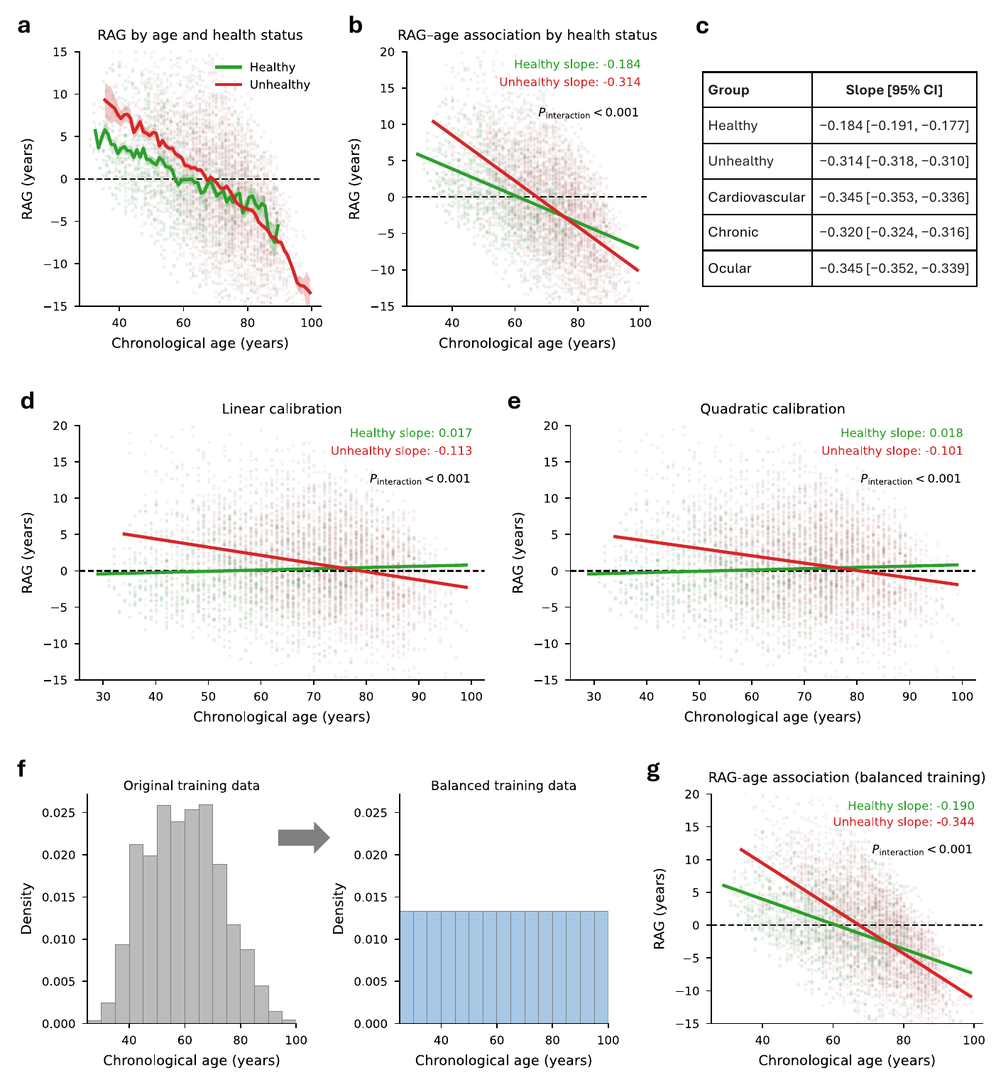
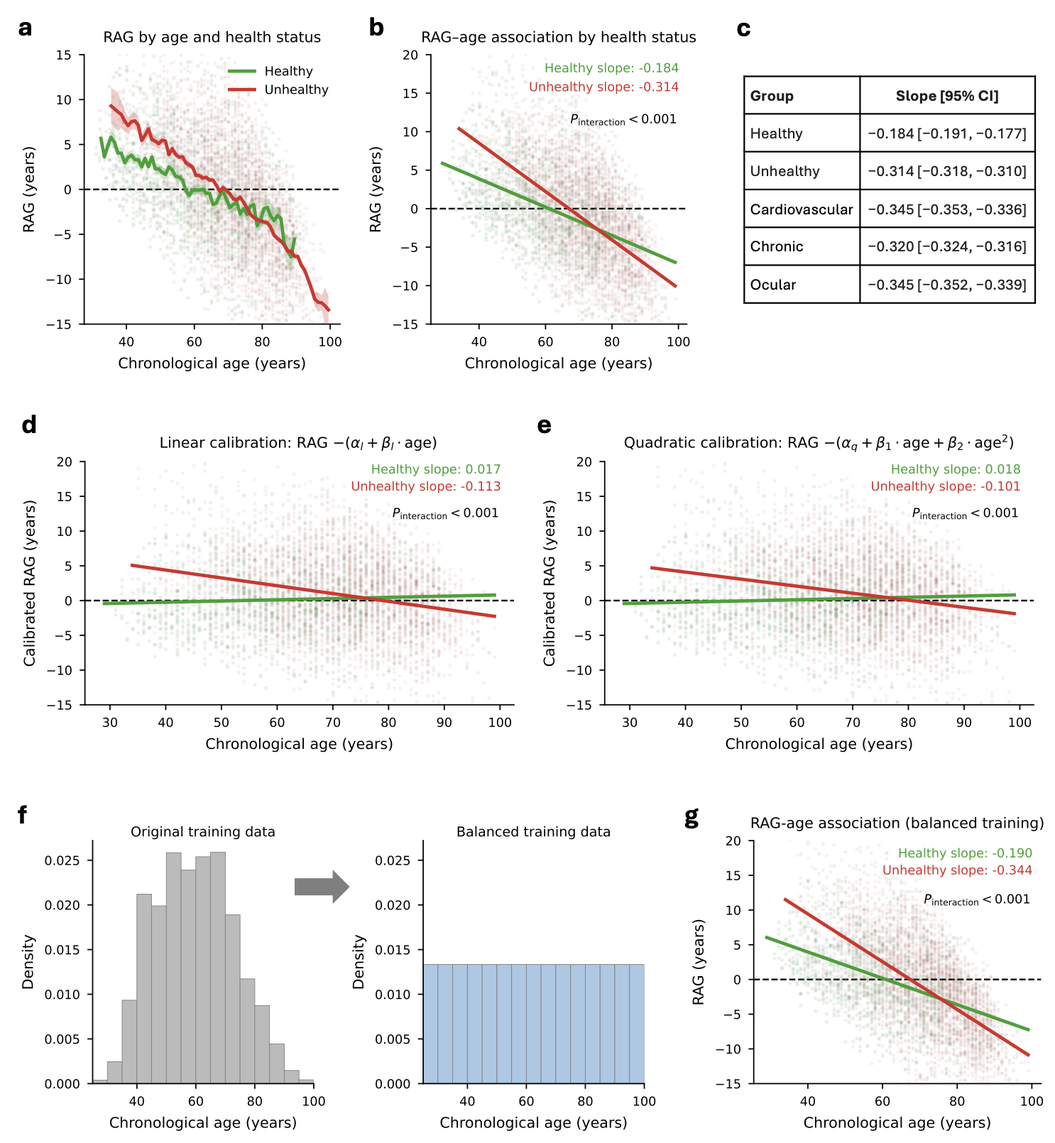
docs: revise preprint Results — add Age baseline, calibration CIs, split methods
- §3: state where calibrators are fit, give linear/quadratic forms with
  α_l,β_l / α_q,β_1,β_2 (matching fig-3 panel labels), and 95% CIs for
  all calibrated and balanced-training slopes.
- §4: report 95% CIs on all per-disease nested-model AUCs; add explicit
  train/test split usage.
- §5: re-order panels (a hexbins, b OR curves, c AUC, d sens/spec/F1)
  to match the regenerated fig-5; add chronological-Age-only baseline
  for external generalisation; report all CIs in xxx (95% CI: [xxx,xxx])
  format with no nested parentheses; explain off-the-shelf vs externally
  calibrated regimes once in the c-d caption.
- Captions trimmed to describe what is plotted / how it was produced;
  interpretive 'this confirms / this means' statements moved out.
- fig-3.png and fig-5.png re-exported from updated PDFs at correct
  aspect ratio.

diff --git a/docs/preprint.md b/docs/preprint.md
@@ -4,101 +4,100 @@
 
 ### 1. Study design
 
-A deep retinal age model trained on color fundus photography (CFP) outputs an estimated retinal age $\hat a$. The retinal age gap, $\mathrm{RAG} = \hat a - a$, is interpreted as accelerated (RAG > 0) or decelerated (RAG < 0) biological aging relative to chronological age $a$ (**Fig. 1a**). Because the regressor is trained to minimise prediction error against $a$, predictions revert toward the training-set mean. This is known as the regression-to-the-mean (RTM) effect. We hypothesised that RTM is itself disease-modulated. In unhealthy eyes, the model loses age-specific cues and reverts more strongly than in healthy eyes, producing a *differential* RTM that has been mistaken in previous works for a true biomarker of biological aging (**Fig. 1b**).
+A deep retinal age model trained on colour fundus photography (CFP) outputs an estimated retinal age $\hat a$. The retinal age gap, $\mathrm{RAG} = \hat a - a$, is interpreted as accelerated (RAG > 0) or decelerated (RAG < 0) biological aging relative to chronological age $a$ (**Fig. 1a**). Because the regressor is trained to minimise prediction error against $a$, predictions revert toward the training-set mean. This is known as the regression-to-the-mean (RTM) effect. We hypothesised that RTM is itself disease-modulated. In unhealthy eyes, the model loses age-specific cues and reverts more strongly than in healthy eyes, producing a differential RTM that has been mistaken in previous works for a true biomarker of biological aging (**Fig. 1b**).
 
-To dissect this confound, we assembled one internal cohort (AlzEye, Moorfields) and three independent external cohorts spanning two continents and four imaging devices. After image-quality filtering and removal of records without confirmed disease labels, the analytic AlzEye cohort comprised 60,865 patients / 327,764 images, with mean ± s.d. age 63.07 ± 11.76 years (**Fig. 1c**, **Supplementary Fig. 1**). The internal cohort was partitioned at the patient level into two subsets that share no patients. The *retinal-age estimation subset* (12,306 patients / 67,718 images, healthy only) was used exclusively to train the regression model. The *disease-classification subset* (48,559 patients / 260,046 images, healthy + unhealthy) was used to fit and evaluate downstream logistic associations. External cohorts were UK Biobank (UKB; 29,835 patients / 51,709 images, Topcon), BRSET (5,529 patients / 10,287 images, Canon + Nikon) and mBRSET (1,277 patients / 5,107 images, Phelcom handheld). Per-split patient counts, image counts and age distributions are shown in **Supplementary Figs. 1–7**.
+To dissect this confound, we assembled one internal cohort (AlzEye, Moorfields) and three independent external cohorts spanning two continents and four imaging devices. After image-quality filtering and removal of records without confirmed disease labels, the analytic AlzEye cohort comprised 60,865 patients / 327,764 images, with mean ± s.d. age 63.07 ± 11.76 years (**Fig. 1c**, **Supplementary Fig. 1**). Throughout, unhealthy denotes any record with a confirmed non-healthy disease label, with cardiovascular, chronic and ocular as subcategories. The internal cohort was partitioned at the patient level into two subsets that share no patients. The retinal-age estimation subset (12,306 patients / 67,718 images, healthy only) was used exclusively to train the regression model. The disease-classification subset (48,559 patients / 260,046 images, healthy + unhealthy) was used to fit and evaluate downstream logistic associations. External cohorts were UK Biobank (UKB; 29,835 patients / 51,709 images, Topcon), BRSET (5,529 patients / 10,287 images, Canon + Nikon) and mBRSET (1,277 patients / 5,107 images, Phelcom handheld). Per-split patient counts, image counts and age distributions are shown in **Supplementary Figs. 1–7**.
 
 <img src="exported_figs/fig-1.png" width="100%" alt="Figure 1">
 
 **Fig. 1. Overview of the study, mechanism, and study cohorts.**
 **a.** Retinal age estimation and the retinal age gap (RAG). A deep retinal age model takes a colour fundus photograph (CFP) as the input and outputs an estimated retinal age. The RAG is defined as estimated age minus chronological age: a positive RAG (red) implies faster aging and poorer health, a negative RAG (green) implies slower aging and healthier status, and RAG = 0 (black) reflects average aging at the training-set scale.
-**b.** Mechanism of differential regression-to-the-mean (RTM). Top-left: the true age distribution of the general population (solid) and the predicted-age distribution implied by the model (dashed); predictions contract toward the training mean. Middle-left: in healthy individuals, image features encode age well, so RTM is mild. Bottom-left: in unhealthy individuals, disease-related features dilute the age-specific signal and predictions revert more strongly to the mean (severe RTM). Right column: the empirical mean RAG by 10-year age subgroup confirms the prediction. RAG declines with chronological age in both groups but more steeply in unhealthy, and the implied per-year odds ratio for unhealthy status falls from > 1.10 in the youngest stratum to < 1.00 in the oldest.
+**b.** Schematic of differential regression-to-the-mean (RTM), shown in the left column, alongside the empirical RAG–age and OR–age curves on AlzEye in the right column. Top-left: true age distribution (solid) and predicted-age distribution (dashed). Middle-left and bottom-left: schematic prediction patterns for healthy and unhealthy eyes, respectively. Right column (top): empirical mean RAG by 10-year age subgroup. Right column (bottom): implied per-year odds ratio for unhealthy by age subgroup.
 **c.** Datasets used in this study. The internal AlzEye subset (blue) provided training and an internal hold-out test, and three external cohorts (UK Biobank, BRSET, mBRSET) were used for external generalisation testing. For each cohort the panel summarises the chronological-age distribution and imaging-device composition. All counts shown are after image-quality and disease-label filtering; full per-split breakdowns are in **Supplementary Figs. 1–7**.
 
 ### 2. Retinal age and RAG in the internal cohort
 
-We trained the retinal age model on the retinal-age estimation subset (53,680 training images, **Fig. 2a**). On the held-out validation split, the model achieved a mean absolute error (MAE) of 5.31 years, RMSE of 6.80 years, and a mean RAG of −0.86 years (**Fig. 2b**). This is comparable to or better than published retinal-age benchmarks, despite the relatively narrow training-age window.
+We trained the retinal age model (**Supplementary Fig. 8**) on the train split of the retinal-age estimation subset (**Fig. 2a**). On the held-out validation split of the same subset, the model achieved a mean absolute error (MAE) of 5.31 years, RMSE of 6.80 years, and a mean RAG of −0.86 years (**Fig. 2b**).
 
-Applying the frozen model to the disease-classification subset, the marginal age-adjusted mean RAG at age 65 was significantly higher in every disease category than in healthy controls (mean RAG: healthy −0.7 yr, all-unhealthy +0.7 yr, cardiovascular +1.25 yr, chronic +0.65 yr, ocular +1.6 yr; all *P* < 0.001 vs. healthy; **Fig. 2c**). A logistic regression with disease as the outcome and RAG as the only predictor returned an odds ratio per +1 year RAG of 1.049 (95 % CI 1.046–1.053) for any unhealthy status, 1.041 (1.036–1.046) for cardiovascular disease, 1.048 (1.045–1.052) for chronic disease, and 1.065 (1.061–1.069) for ocular disease (**Fig. 2d**). Taken at face value, these effect sizes appear consistent with a generic biomarker of biological aging. However, as we now show, they are inflated by differential RTM rather than reflecting a single underlying aging signal.
+We then froze the retinal age model and applied it to the test split of the disease-classification subset; all subsequent §2–§4 analyses use this split unless stated otherwise. The marginal age-adjusted mean RAG at age 65 was significantly higher in every disease category than in healthy controls (mean RAG: healthy −0.7 yr, unhealthy +0.7 yr, cardiovascular +1.25 yr, chronic +0.65 yr, ocular +1.6 yr; all *P* < 0.001 vs healthy; **Fig. 2c**). A logistic regression with disease as the outcome and RAG as the only predictor returned an odds ratio per +1 year RAG of 1.049 (95% CI: [1.046, 1.053]) for unhealthy, 1.041 (95% CI: [1.036, 1.046]) for cardiovascular disease, 1.048 (95% CI: [1.045, 1.052]) for chronic disease, and 1.065 (95% CI: [1.061, 1.069]) for ocular disease (**Fig. 2d**).
 
 <img src="exported_figs/fig-2.png" width="100%" alt="Figure 2">
 
 **Fig. 2. Internal retinal age prediction and association with disease on the AlzEye disease-classification subset.**
-**a.** Training-set age distribution. Chronological age distribution of the training split of the retinal-age estimation subset, used to fit the retinal age model (1-year bins). Following previous works, the retinal age model is trained exclusively on healthy patients to better separate healthy and unhealthy groups at test time.
-**b.** Internal retinal age model performance. Hexbin density of estimated retinal age vs chronological age on the held-out validation split of the retinal-age estimation subset; the dashed line is identity. The panel reports three commonly used metrics: Mean Retinal Age Gap (RAG), Mean Absolute Error (MAE) and Root Mean Square Error (RMSE). Lower MAE / RMSE indicates that estimated ages are closer to chronological ages.
-**c.** Age-adjusted mean RAG by group. Marginal mean RAG predicted at age 65 for healthy patients and four disease categories (unhealthy = any non-healthy disease record; cardiovascular, chronic and ocular = subcategories). Error bars: 95 % confidence intervals (CIs) from a patient-level cluster bootstrap. P-values for the difference in mean RAG between each disease group and the healthy reference are reported in the panel.
-**d.** Association analysis. Logistic regression was performed with each disease label as the outcome and RAG as the only predictor; reported are Odds Ratios (OR) per +1 year increase in RAG and 95 % CIs, with p-values from the Wald test. An OR > 1 indicates a positive association between higher RAG and disease prevalence.
+**a.** Training-set age distribution. Chronological age distribution of the training split of the retinal-age estimation subset, used to fit the retinal age model (1-year bins). Following previous works, the retinal age model is trained exclusively on healthy patients.
+**b.** Internal retinal age model performance. Hexbin density of estimated retinal age vs chronological age on the held-out validation split of the retinal-age estimation subset; the dashed line is identity. Annotated metrics: Mean Retinal Age Gap (RAG), Mean Absolute Error (MAE) and Root Mean Square Error (RMSE).
+**c.** Age-adjusted mean RAG by group. Marginal mean RAG predicted at age 65 for healthy patients and the four disease categories. Error bars: 95% confidence intervals (CIs) from a patient-level cluster bootstrap. P-values for the difference in mean RAG between each disease group and the healthy reference are reported in the panel.
+**d.** Association analysis. Logistic regression was performed with each disease label as the outcome and RAG as the only predictor; reported are Odds Ratios (OR) per +1 year increase in RAG and 95% CIs, with *P*-values from the Wald test.
 
 ### 3. Differential RTM by health status
 
-Stratifying RAG by chronological age within disease group revealed a strong, *non-zero* slope of RAG against age in every group (**Fig. 3a,b**). The healthy slope was −0.184 (95 % CI −0.191 to −0.177) and the unhealthy slope was −0.314 (−0.318 to −0.310), with $P_{\text{interaction}} < 0.001$. Disease-specific slopes were steeper still: cardiovascular −0.345 (−0.353 to −0.336), chronic −0.320 (−0.324 to −0.316), and ocular −0.345 (−0.352 to −0.339; **Fig. 3c**). A non-zero RAG–age slope is the diagnostic signature of RTM. A true biomarker of biological aging should be approximately constant across chronological age. In contrast, a regression artefact that contracts predictions toward the training mean produces exactly this monotonically decreasing pattern.
+Stratifying RAG by chronological age within disease group revealed a strong, non-zero slope of RAG against age in every group (**Fig. 3a,b**). The healthy slope was −0.184 (95% CI: [−0.191, −0.177]) and the unhealthy slope was −0.314 (95% CI: [−0.318, −0.310]), with $P_{\text{interaction}} < 0.001$. Disease-specific slopes were steeper still: cardiovascular −0.345 (95% CI: [−0.353, −0.336]), chronic −0.320 (95% CI: [−0.324, −0.316]), and ocular −0.345 (95% CI: [−0.352, −0.339]; **Fig. 3c**).
 
-We next asked whether the differential slope between healthy and unhealthy groups could be eliminated by post-hoc calibration. Linear age-calibration on healthy validation data flattened the healthy slope to 0.017 but only attenuated the unhealthy slope to −0.113 ($P_{\text{interaction}} < 0.001$; **Fig. 3d**); a quadratic calibration yielded essentially the same residual interaction (healthy 0.018, unhealthy −0.101, $P_{\text{interaction}} < 0.001$; **Fig. 3e**). Re-training the retinal age model on a uniform-age training distribution obtained by inverse-frequency resampling (**Fig. 3f**) likewise failed to remove the interaction (healthy −0.190, unhealthy −0.344, $P_{\text{interaction}} < 0.001$; **Fig. 3g**). The differential slope persists under three orthogonal interventions (linear calibration, quadratic calibration, and balanced training). This establishes that the RAG–age dependence is not a fixable training artefact. It carries a real, disease-modulated signal that cannot be linearly absorbed into an age coefficient.
+We next asked whether the differential slope between healthy and unhealthy groups could be eliminated by post-hoc calibration. Two age-calibrators were fit on the train split of the disease-classification subset, restricted to healthy patients, by regressing raw RAG on chronological age: a linear form $\mathrm{RAG} = \alpha_l + \beta_l \cdot \mathrm{age}$ and a quadratic form $\mathrm{RAG} = \alpha_q + \beta_1 \cdot \mathrm{age} + \beta_2 \cdot \mathrm{age}^2$. The calibrated RAG on the test split was then defined as raw RAG minus the value implied by the fitted calibrator at each patient's age. Linear age-calibration flattened the healthy slope to 0.017 (95% CI: [0.011, 0.024]) but only attenuated the unhealthy slope to −0.113 (95% CI: [−0.117, −0.109]); $P_{\text{interaction}} < 0.001$ (**Fig. 3d**). The quadratic calibration yielded essentially the same residual interaction: healthy 0.018 (95% CI: [0.011, 0.024]), unhealthy −0.101 (95% CI: [−0.105, −0.097]); $P_{\text{interaction}} < 0.001$ (**Fig. 3e**). Re-training the retinal age model on a uniform-age training distribution obtained by inverse-frequency resampling (**Fig. 3f**) likewise failed to remove the interaction on the test split: healthy −0.190 (95% CI: [−0.196, −0.183]), unhealthy −0.344 (95% CI: [−0.348, −0.340]); $P_{\text{interaction}} < 0.001$ (**Fig. 3g**). The differential slope persisted under all three interventions.
 
 <img src="exported_figs/fig-3.png" width="100%" alt="Figure 3">
 
 **Fig. 3. Differential RTM by health status persists under linear, quadratic and training-distribution calibration.**
 All analyses are on the test split of the AlzEye disease-classification subset.
-**a.** Mean RAG vs chronological age stratified by health status (1-year bins). Shaded bands are 95 % CIs from a patient-level cluster bootstrap. A non-zero RAG–age slope is the diagnostic signature of RTM.
-**b.** Group-wise linear regression of RAG on chronological age. Slopes are reported with 95 % CIs and an interaction term tests whether the healthy and unhealthy slopes differ.
-**c.** Slope estimates and 95 % CIs for healthy, unhealthy, and the three disease subcategories.
-**d–e.** Re-evaluation after applying a linear (d) or quadratic (e) age-calibration fitted on the healthy validation split. Calibration is intentionally derived from healthy data only; the test of differential RTM is whether the unhealthy slope flattens to zero accordingly.
+**a.** Mean RAG vs chronological age stratified by health status (1-year bins). Shaded bands are 95% CIs from a patient-level cluster bootstrap.
+**b.** Group-wise linear regression of RAG on chronological age. Slopes are reported with 95% CIs and an interaction term tests whether the healthy and unhealthy slopes differ.
+**c.** Slope estimates and 95% CIs for healthy, unhealthy, and the three disease subcategories.
+**d–e.** Re-evaluation after applying a linear (d) or quadratic (e) age-calibrator fit on the healthy subset of the disease-classification subset training split (see body §3 for the fitted form).
 **f.** Training-distribution rebalancing. Original training-age distribution (left) and the uniform-age distribution obtained by inverse-frequency resampling (right) used for the balanced-training experiment.
-**g.** RAG–age relationship after re-training the retinal age model on the balanced training distribution. Persistence of a differential slope between healthy and unhealthy here indicates that the effect is not a simple training-distribution artefact.
+**g.** RAG–age relationship after re-training the retinal age model on the balanced training distribution.
 
 ### 4. Utility of RAG in disease classification
 
-Because RAG carries information that is not separable from chronological age by a univariate linear correction, we modelled the joint dependence with a logistic regression that included an explicit age × RAG interaction: $\text{logit}(\text{Unhealthy}) \sim \text{Age} + \text{RAG} + \text{Age} \times \text{RAG}$. The interaction was highly significant in every disease category. The implied marginal odds ratio per +1 year RAG decreased monotonically with chronological age, from ≈ 1.12 at age 30 to ≈ 1.00 at age ≈ 90 and below 1.00 for the oldest patients (**Fig. 4a**). In other words, an additional year of RAG carries strong evidence of disease in young patients but essentially none in the very elderly. This is exactly the dependence predicted by the differential-RTM mechanism, in which old patients are already pulled toward the training mean.
+We modelled the joint dependence of disease on age and RAG with a logistic regression that included an explicit age × RAG interaction: $\text{logit}(\text{unhealthy}) \sim \text{Age} + \text{RAG} + \text{Age} \times \text{RAG}$. Logistic coefficients were fit on the train split of the disease-classification subset and all reported metrics are on the held-out test split. The interaction was highly significant in every disease category. The implied marginal odds ratio per +1 year RAG decreased monotonically with chronological age, from ≈ 1.12 at age 30 to ≈ 1.00 around age 90, falling below 1.00 in the oldest patients (**Fig. 4a**).
 
-The interaction term contributed measurable discrimination beyond a main-effects-only model. Across all four disease categories the Age + RAG + Age × RAG model outperformed both the Age-only and Age + RAG models: unhealthy AUC 0.731 → 0.735 → 0.740, cardiovascular 0.806 → 0.808 → 0.815, chronic 0.726 → 0.729 → 0.736, ocular 0.758 → 0.768 → 0.774 (**Fig. 4b**). The advantage was concentrated in the youngest age stratum (< 45 years), where the interaction was largest in absolute terms (e.g. ocular AUC 0.58 → 0.79 → 0.80; **Fig. 4c**). The decision-boundary geometry made this explicit. Under the Age-only model, the boundary is a vertical line in age. Under Age + RAG, it becomes a tilted line. Under Age + RAG + Age × RAG, it becomes a curve whose slope flattens with increasing age, capturing the diminishing diagnostic value of RAG in older patients (**Fig. 4d**).
+Across all four disease categories the Age + RAG + Age × RAG model outperformed both the Age-only and Age + RAG models (**Fig. 4b**). AUCs for Age-only, Age + RAG and Age + RAG + Age × RAG, respectively, were: unhealthy 0.731 (95% CI: [0.726, 0.736]), 0.737 (95% CI: [0.732, 0.742]), 0.741 (95% CI: [0.736, 0.746]); cardiovascular 0.806 (95% CI: [0.800, 0.811]), 0.809 (95% CI: [0.804, 0.814]), 0.813 (95% CI: [0.808, 0.818]); chronic 0.727 (95% CI: [0.722, 0.732]), 0.733 (95% CI: [0.728, 0.738]), 0.737 (95% CI: [0.732, 0.742]); ocular 0.757 (95% CI: [0.752, 0.763]), 0.769 (95% CI: [0.764, 0.775]), 0.774 (95% CI: [0.769, 0.780]). The advantage was concentrated in the youngest age stratum (< 45 years), where the interaction was largest in absolute terms; e.g. ocular AUC 0.579 (95% CI: [0.552, 0.607]), 0.791 (95% CI: [0.770, 0.814]), 0.802 (95% CI: [0.781, 0.824]) under the same three specifications (**Fig. 4c**). Under the Age-only model the decision boundary is a vertical line in age, under Age + RAG a tilted line, and under Age + RAG + Age × RAG a curve whose slope flattens with increasing age (**Fig. 4d**).
 
 <img src="exported_figs/fig-4.png" width="100%" alt="Figure 4">
 
 **Fig. 4. Utility of RAG in disease classification.**
 All models are fitted and evaluated on the AlzEye disease-classification subset; AUCs are reported on the test split.
-**a.** Marginal odds ratio per +1 year RAG by chronological age. Implied by the Age + RAG + Age × RAG logistic for the *Unhealthy* outcome. The interaction term allows the per-year RAG OR to vary continuously with age. Shaded band: 95 % CI from a patient-level cluster bootstrap. An OR > 1 indicates a positive RAG–disease association at that age.
-**b.** Discrimination across logistic specifications. AUC for predicting unhealthy / cardiovascular / chronic / ocular disease under three nested models: Age only (blue), Age + RAG (yellow) and Age + RAG + Age × RAG (red). Error bars: 95 % CI.
+**a.** Marginal odds ratio per +1 year RAG by chronological age. Implied by the Age + RAG + Age × RAG logistic for the unhealthy outcome. Shaded band: 95% CI from a patient-level cluster bootstrap.
+**b.** Discrimination across logistic specifications. AUC for predicting unhealthy / cardiovascular / chronic / ocular disease under three nested models: Age only (blue), Age + RAG (yellow) and Age + RAG + Age × RAG (red). Error bars: 95% CI.
 **c.** Age-stratified discrimination. Same models as in b, stratified by chronological-age tertile (< 45, 45–75, ≥ 75).
-**d.** Decision boundaries in the (Age, RAG) plane. The Age-only model (left) ignores RAG entirely; Age + RAG (centre) adds a fixed-slope age penalty; Age + RAG + Age × RAG (right) introduces a curved boundary that captures the age-dependent diagnostic value of RAG. Background colour: P(Unhealthy); points: held-out test cases.
+**d.** Decision boundaries in the (Age, RAG) plane for the three logistic specifications: Age-only (left), Age + RAG (centre) and Age + RAG + Age × RAG (right). Background colour: P(unhealthy); points: held-out test cases.
 
 ### 5. Generalisation across external cohorts
 
-We finally evaluated whether the AlzEye-trained retinal-age model, together with the AlzEye-fitted Age + RAG + Age × RAG logistic, transfers across populations and devices. Apparent age-prediction accuracy *appeared* to degrade only modestly across cohorts (UKB MAE 3.80 yr, BRSET 7.34 yr, mBRSET 8.40 yr; **Fig. 5a**). However, mean RAG was strongly cohort-dependent (UKB +1.48, BRSET −0.92, mBRSET −5.70 years). This reflects both device-specific bias and cohort-specific age distributions. Each external cohort was split 50/50 at the patient level, stratified by disease label.
+We finally evaluated whether the AlzEye-trained retinal-age model, together with the AlzEye-fitted Age + RAG + Age × RAG logistic, transfers across populations and devices. Each external cohort was split 50/50 at the patient level, stratified by disease label, into a training split (used only for external calibration of the logistic and decision threshold) and a test split (used only for evaluation). The retinal-age model itself was never re-trained or fine-tuned on external data. Age-prediction MAE on the external test splits was 3.80 yr in UKB, 7.34 yr in BRSET and 8.40 yr in mBRSET (**Fig. 5a**); mean RAG was strongly cohort-dependent (UKB +1.48, BRSET −0.92, mBRSET −5.70 years). The implied per-year odds-ratio surfaces, derived from an Age + RAG + Age × RAG logistic refit on each cohort's training split (**Fig. 5b**), reproduced the internal pattern of decreasing OR with age in UKB and BRSET but inverted in mBRSET.
 
-For threshold-free discrimination of unhealthy vs healthy, the AlzEye-trained Age + RAG + Age × RAG logistic achieved an internal AUC of 0.741 (95 % CI 0.722–0.764). When applied off-the-shelf (i.e. without refitting either the logistic coefficients or the decision threshold), discrimination dropped substantially in every external cohort (UKB AUC 0.685 [0.677–0.692], BRSET 0.664 [0.652–0.677], mBRSET 0.614 [0.585–0.642]; **Fig. 5b**, light bars). Re-fitting the logistic *coefficients* on each external training split (externally calibrated) only marginally increased AUC (UKB 0.687, BRSET 0.671, mBRSET 0.638). This confirms that most of the AUC drop reflects cohort-level shifts in the underlying retinal-age representation, rather than miscalibration of the logistic.
+For threshold-free discrimination of unhealthy vs healthy, the AlzEye-trained Age + RAG + Age × RAG logistic achieved an internal AUC of 0.741 (95% CI: [0.715, 0.767]); the chronological-Age-only baseline was 0.731 (95% CI: [0.706, 0.756]). Off-the-shelf transfer to external cohorts dropped AUC under both specifications (**Fig. 5c**). For Age + RAG + Age × RAG: UKB 0.685 (95% CI: [0.675, 0.694]), BRSET 0.664 (95% CI: [0.646, 0.682]), mBRSET 0.614 (95% CI: [0.559, 0.665]). For the Age-only baseline: UKB 0.684 (95% CI: [0.674, 0.693]), BRSET 0.662 (95% CI: [0.644, 0.680]), mBRSET 0.637 (95% CI: [0.582, 0.696]). External calibration only marginally increased the interaction-model AUC: UKB 0.688 (95% CI: [0.679, 0.697]), BRSET 0.671 (95% CI: [0.652, 0.689]), mBRSET 0.638 (95% CI: [0.583, 0.695]). In mBRSET, the Age-only model in fact outperformed the interaction model off-the-shelf.
 
-Threshold-based metrics, evaluated at the AlzEye internal Youden threshold (0.742) for the off-the-shelf regime and at per-cohort Youden thresholds for the externally-calibrated regime, told a more nuanced story (**Fig. 5c**). At a fixed AlzEye threshold, sensitivity collapsed in all three external cohorts (UKB 0.49, BRSET 0.51, mBRSET 0.39; vs internal 0.78), while specificity was preserved or elevated (UKB 0.76, BRSET 0.73, mBRSET 0.74; vs internal 0.58). Re-fitting both the logistic and the threshold on the local training split largely restored sensitivity (UKB 0.72, BRSET 0.58, mBRSET 0.82) at the cost of specificity in the high-prevalence mBRSET cohort (0.43). The implied per-year odds-ratio surfaces (**Fig. 5d**) reproduced the internal pattern of decreasing OR with age in two of three external cohorts (UKB, BRSET), but inverted in mBRSET. This inversion likely reflects mBRSET's narrow age range, ~80 % disease prevalence and handheld-camera image domain. Together, these results illustrate that *off-the-shelf transfer of a retinal-age biomarker is not warranted without explicit cohort-level recalibration*.
+For threshold-based metrics (**Fig. 5d**), off-the-shelf transfer dropped sensitivity in all three external cohorts (UKB 0.49, BRSET 0.51, mBRSET 0.39; vs internal 0.79), while specificity was preserved or elevated (UKB 0.76, BRSET 0.72, mBRSET 0.74; vs internal 0.57). External calibration restored sensitivity (UKB 0.72, BRSET 0.57, mBRSET 0.82) at the cost of specificity in mBRSET (0.42).
 
 <img src="exported_figs/fig-5.png" width="100%" alt="Figure 5">
 
 **Fig. 5. Generalisation across external cohorts: UK Biobank, BRSET and mBRSET.**
-Each external cohort is split 50/50 at the patient level, stratified by Unhealthy; evaluations are reported on the local test split.
+Each external cohort is split 50/50 at the patient level, stratified by disease label; evaluations are reported on the local test split.
 **a.** External retinal age model performance. Hexbin density of estimated retinal age vs chronological age in each external cohort; the dashed line is identity. Per-cohort MAE, RMSE and mean RAG are annotated in each panel.
-**b.** External AUC under the Age + RAG + Age × RAG logistic. The model logit(Unhealthy) ∼ Age + RAG + Age × RAG is evaluated on each external cohort. Internal: AlzEye disease-classification subset test split (dashed reference line). Off-the-shelf (light blue): the AlzEye-fit logistic applied without refit. Externally calibrated (dark blue): the same specification refit on the local training split. Error bars: 95 % CI from a patient-level cluster bootstrap.
-**c.** Sensitivity, specificity and F1 at the operating threshold for each cohort × regime. Off-the-shelf evaluations use the *fixed AlzEye internal Youden threshold* (0.742, the only honest "no recalibration" definition), held constant across bootstrap resamples. Externally-calibrated evaluations use a per-cohort Youden threshold computed on the local training split. Internal references are shown as dashed lines.
-**d.** Implied per-year odds-ratio curves. Curves derived from each cohort's externally-calibrated Age + RAG + Age × RAG logistic for the *Unhealthy* outcome, plotted against chronological age. The AlzEye internal curve (grey) is reproduced for reference. An OR > 1 indicates a positive RAG–disease association at that age.
+**b.** Implied per-year odds-ratio curves. Curves derived from each cohort's externally-calibrated Age + RAG + Age × RAG logistic for the unhealthy outcome, plotted against chronological age. The AlzEye internal curve (grey) is reproduced for reference.
+**c–d.** Disease classification metrics across cohorts. Two logistic specifications (Age-only; Age + RAG + Age × RAG) are evaluated on each external cohort in two ways: off-the-shelf, applying the AlzEye-fit logistic without modification (and, for thresholded metrics, reusing the AlzEye internal Youden threshold of 0.742); and externally calibrated, refitting the logistic on the local training split and re-deriving the threshold as the local Youden point. The AlzEye internal cell uses off-the-shelf only (no recalibration on internal data). **c**, AUC. **d**, Sensitivity, specificity and F1 at the per-cell operating threshold. Dashed lines: AlzEye internal references. Error bars: 95% CI from a patient-level cluster bootstrap.
 
 ### Appendix
 
 <img src="exported_figs/supp/fig-1.png" width="100%" alt="Supplementary Figure 1">
 
-**Supplementary Fig. 1. AlzEye cohort assembly flow.** Filtering pipeline from the raw quality-scored images down to the analytic AlzEye cohort. The cohort is partitioned at the patient level into a *retinal-age estimation subset* (healthy patients only) used to train the retinal age model, and a *disease-classification subset* (healthy and unhealthy patients) used to fit and evaluate the downstream logistic associations. The val split of the disease-classification subset is reserved and excluded from all analyses; it is omitted from the diagram for clarity.
+**Supplementary Fig. 1. AlzEye cohort assembly flow.** Filtering pipeline from the raw quality-scored images down to the analytic AlzEye cohort. The cohort is partitioned at the patient level into a retinal-age estimation subset (healthy patients only) used to train the retinal age model, and a disease-classification subset (healthy and unhealthy patients) used to fit and evaluate the downstream logistic associations. The val split of the disease-classification subset is reserved and excluded from all analyses; it is omitted from the diagram for clarity.
 
 <img src="exported_figs/supp/fig-2.png" width="50%" alt="Supplementary Figure 2">
 
-**Supplementary Fig. 2. UK Biobank cohort assembly flow.** Quality- and disease-label filtering pipeline; the analytic UKB cohort is split 50/50 at the patient level, stratified by Unhealthy, into a training split (used for external calibration) and a test split (used for evaluation).
+**Supplementary Fig. 2. UK Biobank cohort assembly flow.** Quality- and disease-label filtering pipeline; the analytic UKB cohort is split 50/50 at the patient level, stratified by disease label, into a training split (used for external calibration) and a test split (used for evaluation).
 
 <img src="exported_figs/supp/fig-3.png" width="100%" alt="Supplementary Figure 3">
 
-**Supplementary Fig. 3. BRSET and mBRSET cohort assembly flows.** **a.** BRSET filtering pipeline and patient-level 50/50 split, stratified by Unhealthy. **b.** mBRSET filtering pipeline and patient-level 50/50 split, stratified by Unhealthy. mBRSET shows a substantially smaller healthy-patient count per split than the other external cohorts.
+**Supplementary Fig. 3. BRSET and mBRSET cohort assembly flows.** **a.** BRSET filtering pipeline and patient-level 50/50 split, stratified by disease label. **b.** mBRSET filtering pipeline and patient-level 50/50 split, stratified by disease label. mBRSET shows a substantially smaller healthy-patient count per split than the other external cohorts.
 
 <img src="exported_figs/supp/fig-4.png" width="100%" alt="Supplementary Figure 4">
 
-**Supplementary Fig. 4. AlzEye chronological-age distributions per split.** Histograms with 1-year bins; per-panel legends report N and age mean ± s.d. Row 1: retinal-age estimation subset (train and val). Rows 2–4: disease-classification subset (train and test), with each panel showing total (grey), Healthy (green) and Unhealthy (red). Within the disease-classification subset, unhealthy patients are systematically older than healthy patients in both train and test splits.
+**Supplementary Fig. 4. AlzEye chronological-age distributions per split.** Histograms with 1-year bins; per-panel legends report N and age mean ± s.d. Row 1: retinal-age estimation subset (train and val). Rows 2–4: disease-classification subset (train and test), with each panel showing total (grey), healthy (green) and unhealthy (red). Within the disease-classification subset, unhealthy patients are systematically older than healthy patients in both train and test splits.
 
 <img src="exported_figs/supp/fig-5.png" width="100%" alt="Supplementary Figure 5">
 
-**Supplementary Fig. 5. UK Biobank chronological-age distributions per split.** 3 × 2 layout: train (left column) vs test (right column); total (grey), Healthy (green) and Unhealthy (red) by row. 1-year bins; per-panel legends report N and age mean ± s.d. UKB exhibits a narrow age range by recruitment design (40–69 at baseline).
+**Supplementary Fig. 5. UK Biobank chronological-age distributions per split.** 3 × 2 layout: train (left column) vs test (right column); total (grey), healthy (green) and unhealthy (red) by row. 1-year bins; per-panel legends report N and age mean ± s.d. UKB exhibits a narrow age range by recruitment design (40–69 at baseline).
 
 <img src="exported_figs/supp/fig-6.png" width="100%" alt="Supplementary Figure 6">
 
